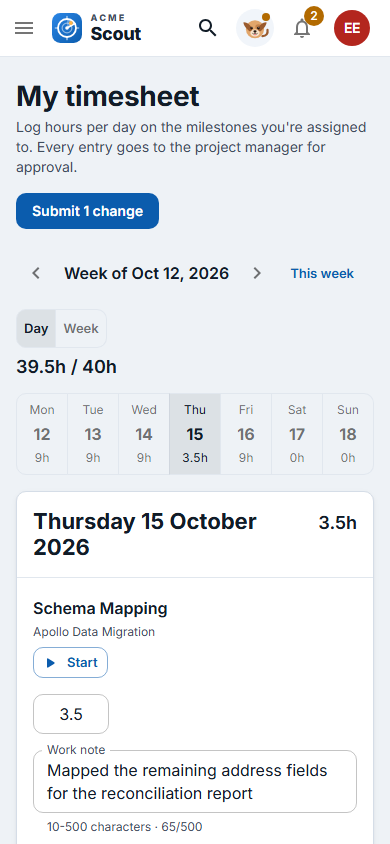
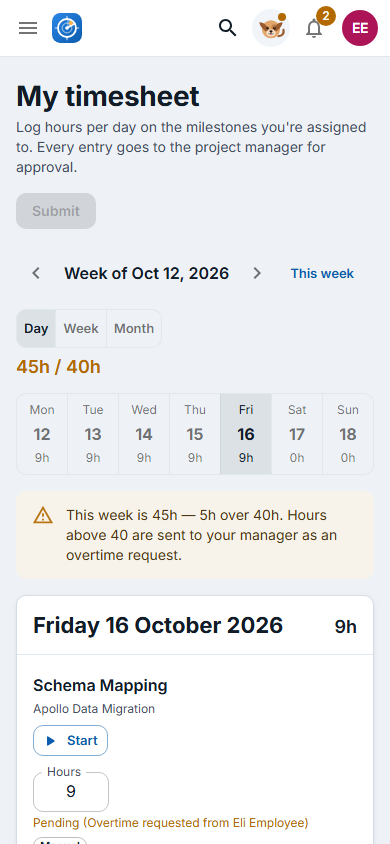
Docs: counts from the final runs, layout checks and fixed flakes in TESTING, Month view keyboard, the demo pill and notices, retaken control centre and phone timesheet screenshots

diff --git a/docs/project/TESTING.md b/docs/project/TESTING.md
@@ -11,11 +11,11 @@ The tests are built for **debugging**, not only for a green tick:
 |---|---|---|---|
 | Rules (unit) | pytest | part of 387 unit tests | A business rule is wrong: at-risk, over-40, cycles, the capacity cap, usernames, milestone status, priority, routing, claims, planning checks, messaging permissions, insights, reminders, timers and rounding, timer drafts and locks, over-limit thresholds, proof of work, red flags, the PNG sanitiser, or the password policy. No database is involved |
 | Core (unit) | pytest | part of 387 unit tests | The HTTP envelope, router guards, request IDs, hashing and tokens, or the SES fail-fast behaviour |
-| API (integration) | pytest + real PostgreSQL 17 | 786 | An endpoint is wrong: permissions (401/403/404), the executive and public demo guards, validation, archiving, an audit row, a race-safe update, or what one role can see vs another |
-| Frontend (component) | Vitest + React Testing Library + MSW | 979 (73 files) | A screen is wrong: form gating, loading/empty/error states, role-based hiding, or the payload sent to the API |
-| End-to-end | Playwright | 3 journeys × 2 devices | The pieces don't fit together in a real browser: real API, real database, real cookies |
+| API (integration) | pytest + real PostgreSQL 17 | 813 | An endpoint is wrong: permissions (401/403/404), the executive and public demo guards, validation, archiving, an audit row, a race-safe update, or what one role can see vs another |
+| Frontend (component) | Vitest + React Testing Library + MSW | 1,009 (73 files) | A screen is wrong: form gating, loading/empty/error states, role-based hiding, or the payload sent to the API |
+| End-to-end | Playwright | 3 journeys × 2 devices + 11 layout checks | The pieces don't fit together in a real browser (real API, real database, real cookies), or the layout breaks where jsdom can't see it: overlapping top-bar controls, crumbs under the search field, a page wider than a phone |
 
-Counts as of 2026-10-16: **1,173 backend** (387 unit, 786 integration, collected; 97% coverage at the last full run) and **979 frontend** in 73 files, plus **6 end-to-end**; the frontend and end-to-end suites all pass. Four date-dependent backend tests fail when the suite is run after 8 pm New York time (see [Known issue](#known-issue-date-dependent-backend-tests)). Results are under [Current results](#current-results-2026-10-16); older dated results further down are snapshots taken at the time.
+Counts as of 2026-10-16: **1,200 backend** (387 unit, 813 integration, collected; 97% coverage at the last full run) and **1,009 frontend** in 73 files, plus **17 end-to-end** (6 journey runs and 11 layout checks); the frontend and end-to-end suites all pass. Four date-dependent backend tests fail when the suite is run after 8 pm New York time (see [Known issue](#known-issue-date-dependent-backend-tests)). Results are under [Current results](#current-results-2026-10-16); older dated results further down are snapshots taken at the time.
 
 **Fail-closed guard tests.** Two integration tests walk every registered write route (66 of 114 routes): [`test_public_demo.py`](../../backend/v1/tests/integration/test_public_demo.py) fails while any write route is neither allowed nor denied for the public demo admin, and [`test_executive.py`](../../backend/v1/tests/integration/test_executive.py) fails if the set of routes that let an executive write differs from the expected list, and checks that no executive response carries `salary` or `hourly_rate`. A new endpoint can't ship without a decision for both.
 
@@ -75,9 +75,15 @@ Each journey runs on **desktop Chrome (1280×800)** and on an **iPhone 13 profil
 2. **Milestones:** a manager adds a milestone that depends on *Discovery* and assigns Eli. Eli starts it and moves it to *ready for review*; Eli can't complete it. The manager then completes it.
 3. **Overtime:** an employee logs 9 h Monday to Friday in the timesheet's Day view: for each day they pick it in the week strip, type the hours and a work note (proof of work), and they press **Submit** once at the end. Stepping through the days afterwards, only Friday shows "Pending (Overtime requested from …)". The manager gets exactly one notification and opens it on the Timesheets page, filtered to that person. The manager then views the budget impact and approves, and the project's consumed budget goes up.
 
+[`shell.spec.js`](../../frontend/e2e/shell.spec.js) adds 11 layout checks that jsdom can't make (no layout engine). Each runs once, in its own project: tagged `@phone` (mobile only) or `@desktop` (desktop only), so nothing shows as skipped.
+
+4. **Phone top bar** at 375 and 390 px: for the public demo admin's home, an employee's project page, and an employee with a running timer (home and project page), no top-bar control draws over another or off the screen. Each control is measured with everything drawn inside it, text included, minus what an ellipsis clips.
+5. **Desktop crumbs** at 1440 px: a 113-character project name (stretched in the API response; nothing is saved) ends in an ellipsis and stops before the search field.
+6. **No sideways scroll at 375 px:** every page in each role's navigation, a project page and My profile, for employee, manager, executive and admin, once with the seeded names and once with every name stretched (a long name plus a 35-letter word): `document.documentElement.scrollWidth` must stay 375.
+
 ## Current results (2026-10-16)
 
-Windows 11, PostgreSQL 17, Node 24, Python 3.12. Backend: 1,173 tests (387 unit, 786 integration), 83 more than before the Month view (the backend counts are collected, not re-run in full; the timed runs below are earlier). The timed runs below come from `59d29fe` (the timer workflow) and `323ea89`, which had 1,087 tests; `f6c27bd` (no timer on a completed milestone) then added 3. The plain run was repeated at `3e61cd3` after 8 pm New York time, so it shows the known issue below. The frontend and end-to-end figures are from runs on 16 October, after Month view v2.
+Windows 11, PostgreSQL 17, Node 24, Python 3.12. Backend: 1,200 tests (387 unit, 813 integration), 110 more than before the Month view (the backend counts are collected, not re-run in full; the timed runs below are earlier). The timed runs below come from `59d29fe` (the timer workflow) and `323ea89`, which had 1,087 tests; `f6c27bd` (no timer on a completed milestone) then added 3. The plain run was repeated at `3e61cd3` after 8 pm New York time, so it shows the known issue below. The frontend and end-to-end figures are from runs on 16 October, after the redesign's shell (phase 1) and its fix wave: the frontend suite passed five times in a row with no failure.
 
 ```
 # backend/v1: OVERWATCH_TEST_DB=overwatch_test_docs2 python -m pytest -o addopts="" -q
@@ -92,20 +98,26 @@ TOTAL                                     6456    175    97%
 
 # collected per layer
 tests/unit:        387 tests
-tests/integration: 786 tests
+tests/integration: 813 tests
 
-# frontend: npx vitest run
+# frontend: npx vitest run (five runs in a row, each the same)
  Test Files  73 passed (73)
-      Tests  979 passed (979)
+      Tests  1009 passed (1009)
 
-# frontend: npm run lint && npm run build
-no problems; built in 9.68s
+# frontend: npm run lint
+no problems
 
 # frontend: npx playwright test
-  6 passed (1.8m)
+  17 passed (4.6m)
 ```
 
-The end-to-end suite (3 journeys × desktop Chrome and iPhone 13 WebKit, 6 tests) was brought up to date on 16 October: the overtime journey logs day by day in the Day view (hours and a work note per day, one **Submit** for the week) and follows the alert to the Timesheets page (after submitting, it switches to **Month**, selects Friday, checks that the day's panel lists its 9h pending, and presses **Edit in Day view** to land on that day; on a phone the panel sits under the grid), and the onboarding journey lands on My week. All 6 pass. When the machine is busy with other suites, the milestones journey can time out waiting on the API; run the end-to-end suite on its own.
+The end-to-end suite (3 journeys × desktop Chrome and iPhone 13 WebKit, plus 11 layout checks: 17 tests, 4.6 minutes) was last brought up to date on 16 October, with the shell fix wave (the layout checks; the Month panel's buttons are now named "Edit in Day view, <milestone>"): the overtime journey logs day by day in the Day view (hours and a work note per day, one **Submit** for the week) and follows the alert to the Timesheets page (after submitting, it switches to **Month**, selects Friday, checks that the day's panel lists its 9h pending, and presses **Edit in Day view** to land on that day; on a phone the panel sits under the grid), and the onboarding journey lands on My week. All 17 pass. When the machine is busy with other suites, the milestones journey can time out waiting on the API; run the end-to-end suite on its own.
+
+**Load flakes fixed (16 October).** Three tests used to fail now and then when the whole suite ran, and pass alone. Each waited for the wrong thing:
+- `access.test.jsx` (the 403/404 redirects): the toast and the move home start together, but React Router runs navigation as a transition, which can commit after the toast under load. The tests now wait for the landing page or the location, not the toast.
+- `messages.test.jsx` ("shows my messages… and marks it read"): the stubbed thread never moved `last_read_at`, so the page marked it read again after every refetch (22 times in 1.5 s), and "read once" only passed if the check landed between two posts. The stub now behaves like the server.
+- `login.test.jsx` (the demo session running out): it waited 1.5 s of real time; the session timer now runs on a controlled clock.
+Proof: the three files ran 10 times in a row next to a full suite (107/107 each time), and the full suite then passed five times in a row.
 
 ### Known issue: date-dependent backend tests
 

diff --git a/docs/project/LOGIC_WALKTHROUGH.md b/docs/project/LOGIC_WALKTHROUGH.md
@@ -207,7 +207,8 @@ A read-only, hours-first calendar of one person's month, opened with the **Day |
 - **No milestone bars.** The grid shows hours and approval status only; colours mean approval status and nothing else. Milestone state stays on the project's timeline.
 - **Day boxes.** Each day shows its date, its total ("–" when empty) and one chip per line, each with an icon and a word: approved (a tick, green), pending (a clock, amber, "Pending"), rejected (an exclamation mark, red, "Needs revision", hours struck through) and a timer draft (a timer, dashed, "Not submitted"). More than 3 lines become "+N more". The day total counts pending and approved hours only; rejected and timer hours are shown but not counted, and a total over 24h turns red. "⚠ Over 40h" marks a day holding an over-40 entry, and "📅 N milestone deadlines" a day where an assigned, unfinished milestone ends. On a phone each line is a small shape in its status colour (approved a filled circle, pending a ring, needs revision a square, not submitted a dashed square), so colour is never the only cue. All the date maths is on `YYYY-MM-DD` strings, so a daylight-saving change can't shift a day.
 - **Selecting a day.** Each day is a button named like "Wed 14 Oct, 9 hours, Schema Mapping 9 hours pending". Clicking it selects it (`?month=YYYY-MM&day=YYYY-MM-DD`; today if it is in the month, otherwise the 1st) and never leaves the Month view.
-- **The day panel** (beside the grid from 900px, under it on a phone): the full date, a summary ("8h · 6h approved, 2h pending"), a card per line (status chip, project, hours, "Timer-linked entry", Source: Manual when `tracked_hours` is 0, Tracked when it is at least the hours, Mixed otherwise, and the manager's reason on a rejected line), then the milestones due that day with **View milestones**. A cell holding timer hours (a `locks` entry) is locked: its card shows the lock, "Timer hours are locked; your manager approves any change" and **Request a change** (the existing dialog; "Change requested" while one waits). A timer draft's card says "Not submitted yet — submit it in the Day view" with its own **Edit in Day view** (no request: nothing is submitted yet). A request waiting shows "Change requested" and "You asked for 1.5h", even on a closed project. Hours on a milestone you are no longer assigned to show "You're no longer assigned to this milestone" and no action. Any other line has **Edit in Day view**, which opens the Day view on that date; a day with only locked lines or none offers the same button under "Other hours" ("Submit timer hours or log other hours" when the day holds a draft) or on its own. The buttons are named with their milestone for screen readers ("Request a change, Schema Mapping", "Edit Schema Mapping in Day view", "View Schema Mapping"). Choosing a day from the keyboard moves focus to the panel's heading. On a phone the legend also explains the "⚠ Over 40h" and milestone-deadline marks, and the panel adds "Over 40h this week" for a day with an over-40 entry. The Source shown is the entry's `source` when the API sends it. The Month view never saves hours; typed hours stay editable in the Day view.
+- **The day panel** (beside the grid from 900px, under it on a phone): the full date, a summary ("8h · 6h approved, 2h pending"), a card per line (status chip, project, hours, "Timer-linked entry", Source: Manual when `tracked_hours` is 0, Tracked when it is at least the hours, Mixed otherwise, and the manager's reason on a rejected line), then the milestones due that day with **View milestones**. A cell holding timer hours (a `locks` entry) is locked: its card shows the lock, "Timer hours are locked; your manager approves any change" and **Request a change** (the existing dialog; "Change requested" while one waits). A timer draft's card says "Not submitted yet — submit it in the Day view" with its own **Edit in Day view** (no request: nothing is submitted yet). A request waiting shows "Change requested" and "You asked for 1.5h", even on a closed project. Hours on a milestone you are no longer assigned to show "You're no longer assigned to this milestone" and no action. Any other line has **Edit in Day view**, which opens the Day view on that date; a day with only locked lines or none offers the same button under "Other hours" ("Submit timer hours or log other hours" when the day holds a draft) or on its own. The buttons' names start with their visible words and add the milestone for screen readers ("Request a change, Schema Mapping", "Edit in Day view, Schema Mapping", "View milestones, Schema Mapping"). A saved typed line that shares its cell with timer hours says "This request covers the cell's 3.5h, including 1.5h from your timer", because a change request is for the whole cell.
+- **Keyboard.** The grid stays a table (column headers Mon–Sun, one cell per day) but is a single Tab stop: Tab lands on the selected day (or the last day you moved to) and the next Tab leaves the grid. The arrow keys move between days (left/right a day, up/down a week), Home and End go to the Monday and Sunday of that week, and Page Up / Page Down open the previous or next month on the same date (the 31st becomes the month's last day). An arrow that steps off the grid opens that month too. Moving never selects: **Enter** or **Space** selects the focused day and moves focus to the panel's heading; when that day is in another month, focus waits until the new month has rendered. The table's description tells screen-reader users these keys. On a phone the legend also explains the "⚠ Over 40h" and milestone-deadline marks, and the panel adds "Over 40h this week" for a day with an over-40 entry. The Source shown is the entry's `source` when the API sends it. The Month view never saves hours; typed hours stay editable in the Day view.
 - **UI:** [`MonthView.jsx`](../../frontend/src/features/timesheet/MonthView.jsx), [`MonthDayBox.jsx`](../../frontend/src/features/timesheet/MonthDayBox.jsx), [`MonthDayPanel.jsx`](../../frontend/src/features/timesheet/MonthDayPanel.jsx), [`monthLayout.js`](../../frontend/src/features/timesheet/monthLayout.js), [`monthText.js`](../../frontend/src/features/timesheet/monthText.js) and the toggle in [`TimesheetPage.jsx`](../../frontend/src/features/timesheet/TimesheetPage.jsx).
 
 ## 6. The at-risk rule
@@ -859,11 +860,15 @@ demo account per rolling minute (`429 RATE_LIMITED`), counted in `demo_login_att
 caller can set the header to dodge the limit, but can't limit anyone else without knowing their address.
 
 **In the app.** [`app/DemoSession.jsx`](../../frontend/src/app/DemoSession.jsx) shows a one-time welcome dialog and a
-pill in the top bar, "Demo session · 4:32", counting down to `session_expires_at`; it turns red under 1:00 and opens
-a popover ("Public demo admin. Some actions are disabled, and you'll be signed out when the timer ends."). Its name
-carries the time left ("Demo session, signed out in 4 minutes 32 seconds") and a polite live region says "1 minute
-left in the demo session" once, at 1:00, never every second. People, Departments, Skills and Archive also open with a
-"Demo access ·" notice saying what is unavailable. [`auth/SessionProvider.jsx`](../../frontend/src/auth/SessionProvider.jsx)
+tinted pill in the top bar, "Demo session · 4:32" (the timer icon and "4:32" alone on a phone), counting down to
+`session_expires_at`; it turns red under 1:00 and opens a popover ("Public demo admin. Some actions are disabled, and
+you'll be signed out when the timer ends.", then "Time left: 4:32", because an open popover hides the page and its
+live region from screen readers). Its name carries the time left ("Demo session, signed out in 4 minutes 32 seconds")
+and holds still while the pill has focus, so it isn't re-read every second; a polite live region says "1 minute left in
+the demo session" once, at 1:00. The pill's and notices' amber text reaches 4.5:1 on its tint in light and dark
+(`demoTone` in [`lib/demoSession.js`](../../frontend/src/lib/demoSession.js)). People, Departments, Skills and Archive
+also open with a tinted "**Demo access** · …" notice (a timer icon, the lead in bold) saying what is unavailable; the
+Archive one can be hidden for the session, a choice kept per page. [`auth/SessionProvider.jsx`](../../frontend/src/auth/SessionProvider.jsx)
 signs out at `session_expires_at` (or when a refresh answers `DEMO_SESSION_EXPIRED`) and the sign-in page says "Your
 5-minute demo session has ended." [`lib/permissions.js`](../../frontend/src/lib/permissions.js) mirrors the denylist
 (`demoBlocks`), and [`components/DemoLock.jsx`](../../frontend/src/components/DemoLock.jsx) shows those buttons

diff --git a/README.md b/README.md
@@ -12,7 +12,7 @@ Scout is a project tracking platform for ACME Inc. It gives admins, project mana
 |---|---|
 | **Live site** | https://d3ucnz03j0sngl.cloudfront.net |
 | **Stack** | React 19 · Material UI 9 · React Responsive · Python 3 on AWS Lambda · Aurora PostgreSQL 17 |
-| **Tests** | 1,173 backend (387 unit · 786 integration; 97% coverage at the last full run) · 979 frontend component (73 files) · 6 end-to-end (3 journeys × desktop + mobile); frontend and end-to-end all passing on 16 Oct — see [TESTING.md](docs/project/TESTING.md) |
+| **Tests** | 1,200 backend (387 unit · 813 integration; 97% coverage at the last full run) · 1,009 frontend component (73 files) · 17 end-to-end (3 journeys × desktop + mobile, and 11 layout checks: the phone top bar, the desktop crumbs, no sideways scroll at 375 px); frontend and end-to-end all passing on 16 Oct — see [TESTING.md](docs/project/TESTING.md) |
 | **Source** | https://github.com/RootMoataz/citi-overwatch (the repository keeps its original name for now) |
 
 ## What it does
@@ -35,7 +35,7 @@ Highlights:
 - **Approvals.** The Timesheets page groups pending hours by person-week. Each entry shows its budget impact: the cost of the request, the remaining budget before and after, and a 4-week-pace forecast.
 - **Hour-tracking safeguards.** A start/stop timer on My week and the timesheet (one at a time, a live clock in the header, stopped at midnight) whose hours pre-fill a locked timesheet cell until **Submit** sends them (a **Request a change** goes to the manager), a **Live now** card where managers watch running timers tick and can stop one with a message, warnings at 100% of the 8h day, the milestone's estimate or the 40h week (the manager is alerted at 125%), proof of work on new hours (a work note or that day's progress update), and red flags for approvers (same hours daily, long days, closed milestones, backdated, over plan, no activity, no proof) with a "Tracked 68% · Manual 32%" share per person-week ([Logic walkthrough §28](docs/project/LOGIC_WALKTHROUGH.md#28-hour-tracking-safeguards-timers-proof-of-work-red-flags)).
 - **Nothing is ever deleted.** Records are archived and an admin can restore them. Every change is written to the **audit log**.
-- **One shell on every page.** A sidebar (Work for everyone, Admin for admins) with your name at the bottom and a Collapse control (press `[`); breadcrumbs across the top, or a back link on phones; then a search field (Ctrl K), your running timer, Puppy, notifications and your avatar. The name at the bottom of the sidebar and the avatar open the same account menu: profile, photo, theme and sign out.
+- **One shell on every page.** A sidebar (Work for everyone, Admin for admins) with your name at the bottom and a Collapse control (press `[`); breadcrumbs across the top, or a back link on phones; then a search field (Ctrl K), your running timer while one runs, Puppy, notifications and your avatar. The name at the bottom of the sidebar and the avatar open the same account menu: profile, photo, theme and sign out.
 - **Responsive.** A sidebar on desktop, a drawer on phones, and tables that become cards on small screens.
 
 - **Planning and milestones.** Department templates, a Backlog → Ready → Scheduled planning board with a finalize checklist, priority and difficulty, skills, auto-routing when work is handed in or completed, and kickbacks when an employee is blocked.
@@ -64,7 +64,7 @@ Screenshots from the live site with the demo data (light mode unless noted).
 | **My timesheet, Month**: each day's hours by approval status (icon and word, never colour alone), milestone deadlines as small markers, and a panel for the selected day with **Edit in Day view** | |
 
 <p>
-  <img src="docs/images/timesheet-mobile.png" alt="My timesheet on a phone, Day view: Submit 1 change, the week strip with Thursday selected at 3.5h, and the Schema Mapping row with a Start button for the timer, its hours and a work note" width="30%">
+  <img src="docs/images/timesheet-mobile.png" alt="My timesheet on a phone, Day view: the top bar with the Scout glyph, the Day, Week and Month toggle, the week strip with Friday selected at 9h, the notice that the week is 45h, 5h over 40h, and the Schema Mapping row with a Start button for the timer and its pending hours" width="30%">
 </p>
 
 ### Manager
@@ -169,10 +169,10 @@ Connection settings come from `POSTGRES_HOST`, `POSTGRES_PORT`, `POSTGRES_USER`,
 ## Tests
 
 ```bash
-cd backend/v1 && python -m pytest --cov=app              # 1,173 unit + integration tests against local Postgres
-cd frontend && npm test                                  # 979 component tests (Vitest + Testing Library)
+cd backend/v1 && python -m pytest --cov=app              # 1,200 unit + integration tests against local Postgres
+cd frontend && npm test                                  # 1,009 component tests (Vitest + Testing Library)
 cd frontend && npx playwright install chromium webkit    # once
-cd frontend && npm run e2e                               # 3 journeys × desktop Chrome and iPhone 13 (WebKit)
+cd frontend && npm run e2e                               # 3 journeys × desktop Chrome and iPhone 13 (WebKit), plus 11 layout checks
 cd frontend && npm run lint
 ```
 

diff --git a/docs/project/DEMO_SCRIPT.md b/docs/project/DEMO_SCRIPT.md
@@ -266,8 +266,8 @@ Say:
 > salaries are stripped from every executive response; photos are rebuilt from checked pixels by a pure-Python PNG
 > sanitiser, so nothing uploaded is served as-is.
 >
-> Tests: 1,173 backend tests (97% coverage at the last full run), 979 frontend component tests, and 6 end-to-end runs on desktop and
-> iPhone; the frontend and end-to-end suites all passed on 16 October.
+> Tests: 1,200 backend tests (97% coverage at the last full run), 1,009 frontend component tests, and 17 end-to-end tests
+> (3 journeys on desktop and iPhone, plus layout checks on a phone); the frontend and end-to-end suites all passed on 16 October.
 >
 > Next: server-side email needs an SES endpoint, which is waiting on the instructors, and the GitHub repository gets
 > renamed to ACME Scout after this presentation."
@@ -307,8 +307,9 @@ One open kickback per milestone and one running timer per person are enforced by
 submissions keep a frozen copy of each payroll CSV.
 
 **Testing strategy?** Test-first. Business rules are pure functions with exhaustive edge cases (387 unit tests).
-786 integration tests run against a real PostgreSQL 17, because mocks hide SQL bugs. 979 component tests use Vitest
-and MSW, where an unhandled request fails the test. 6 Playwright runs cover 3 journeys on desktop Chrome and iPhone
-13 (these and the component tests all passed on 16 October). Two fail-closed tests walk every write route for the executive and demo-admin guards.
+813 integration tests run against a real PostgreSQL 17, because mocks hide SQL bugs. 1,009 component tests use Vitest
+and MSW, where an unhandled request fails the test. 17 Playwright tests cover 3 journeys on desktop Chrome and iPhone
+13 and 11 layout checks (the phone top bar never overlaps, long names never push a page sideways at 375 px); these and
+the component tests all passed on 16 October. Two fail-closed tests walk every write route for the executive and demo-admin guards.
 
 **Don't know?** "Good question. Let me show you where that lives." Open `LOGIC_WALKTHROUGH.md` or `DECISIONS.md`.

diff --git a/docs/project/USER_STORIES.md b/docs/project/USER_STORIES.md
@@ -260,6 +260,7 @@ Each panel is titled with the question it answers, and the panels are labelled r
     - "⚠ Over 40h" marks an overtime day, and "📅 N milestone deadlines" a day when one of my unfinished milestones ends.
     - The header reads "<total>h logged in <Month>" with "Pending + approved · Rejected hours excluded."; a legend explains the statuses.
     - Clicking a day selects it. A panel (beside the grid, or under it on a phone) lists that day's hours, one card per line with status, project, hours, whether it is timer-linked and its source (Manual, Tracked or Mixed), and the manager's reason on a rejected line. Timer hours are locked, with **Request a change** (a timer draft instead says to submit it in the Day view; hours on a milestone I am no longer assigned to have no action); other lines have **Edit in Day view**. The day's milestone dates follow, with **View milestones**.
+    - From the keyboard the grid is one Tab stop: the arrow keys move between days, Home and End to the ends of the week, Page Up and Page Down to the previous and next month, and Enter or Space selects the day and moves focus to its panel.
   - Each saved entry shows its status:
     - "Pending approval"
     - "Pending (Overtime requested from *First Last*)" for the entry that takes my week past 40 hours, and any after it

diff --git a/docs/project/ARCHITECTURE.md b/docs/project/ARCHITECTURE.md
@@ -233,7 +233,7 @@ The UI's [`lib/permissions.js`](../../frontend/src/lib/permissions.js) mirrors t
 ```
 frontend/src/
   app/         App routes, Layout (sidebar ⇄ drawer at md, Theme menu), access rules per route, nav, theme and colour mode,
-               the demo-session banner and countdown, providers, query client, toasts
+               the demo-session countdown pill and page notices, providers, query client, toasts
   api/         client.js (bearer token, request IDs, single shared refresh, ApiError) · queries.js (TanStack Query hooks)
   auth/        SessionProvider, RequireAuth (role-gated routes), ForcePasswordChange
   components/  ErrorAlert, EmptyState, ConfirmDialog, StatusChip, PriorityChip, DifficultyChip, RiskBadges, ResponsiveTable,

diff --git a/docs/project/REQUIREMENTS.md b/docs/project/REQUIREMENTS.md
@@ -196,6 +196,6 @@ Requirements the owner (**U**) added once the minimum was live, grouped by role.
 
 ### Public demo and operations
 
-- [x] Public demo admin (`demo.admin`): 5-minute sessions, fail-closed allow list of writes, disabled controls with a tooltip, countdown banner
+- [x] Public demo admin (`demo.admin`): 5-minute sessions, fail-closed allow list of writes, disabled controls with a tooltip, a countdown pill in the top bar
 - [x] Fail-closed route tests: every write route must be classified for the public demo and the executive guard
 - [x] Additive demo-data operations (`demo_backfill`, `demo_curate` with a dry run); the live data is never reset
